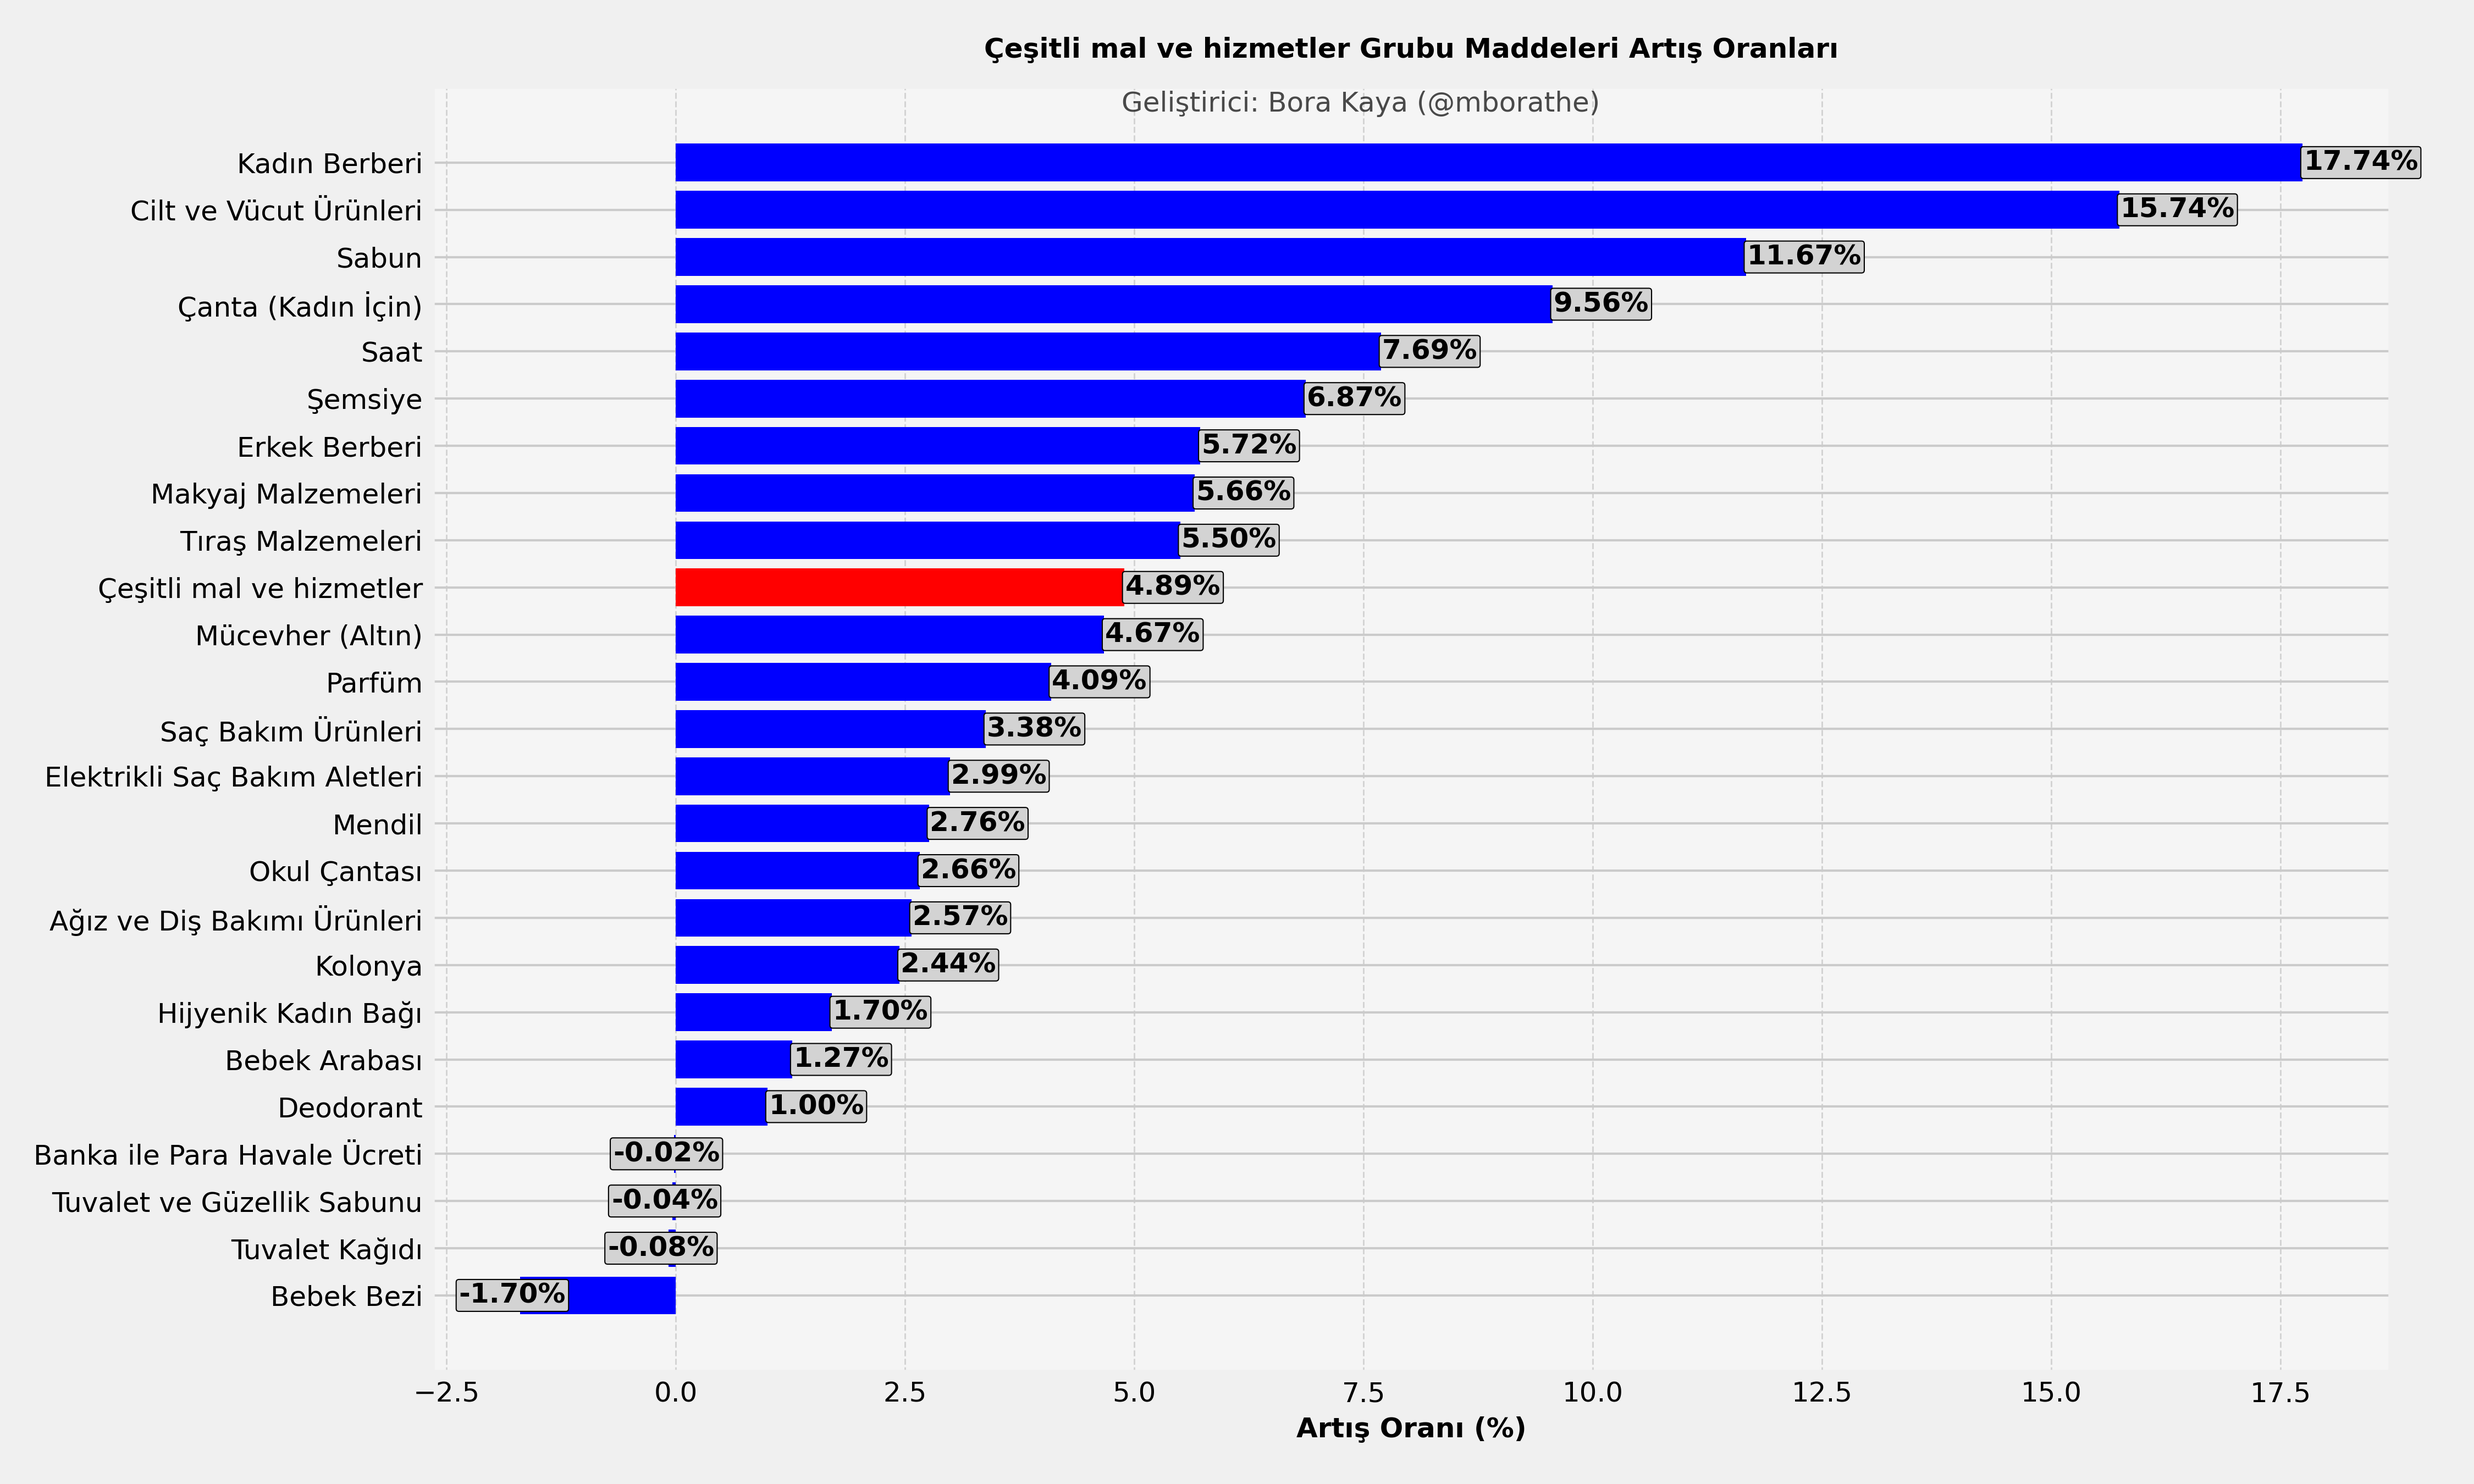
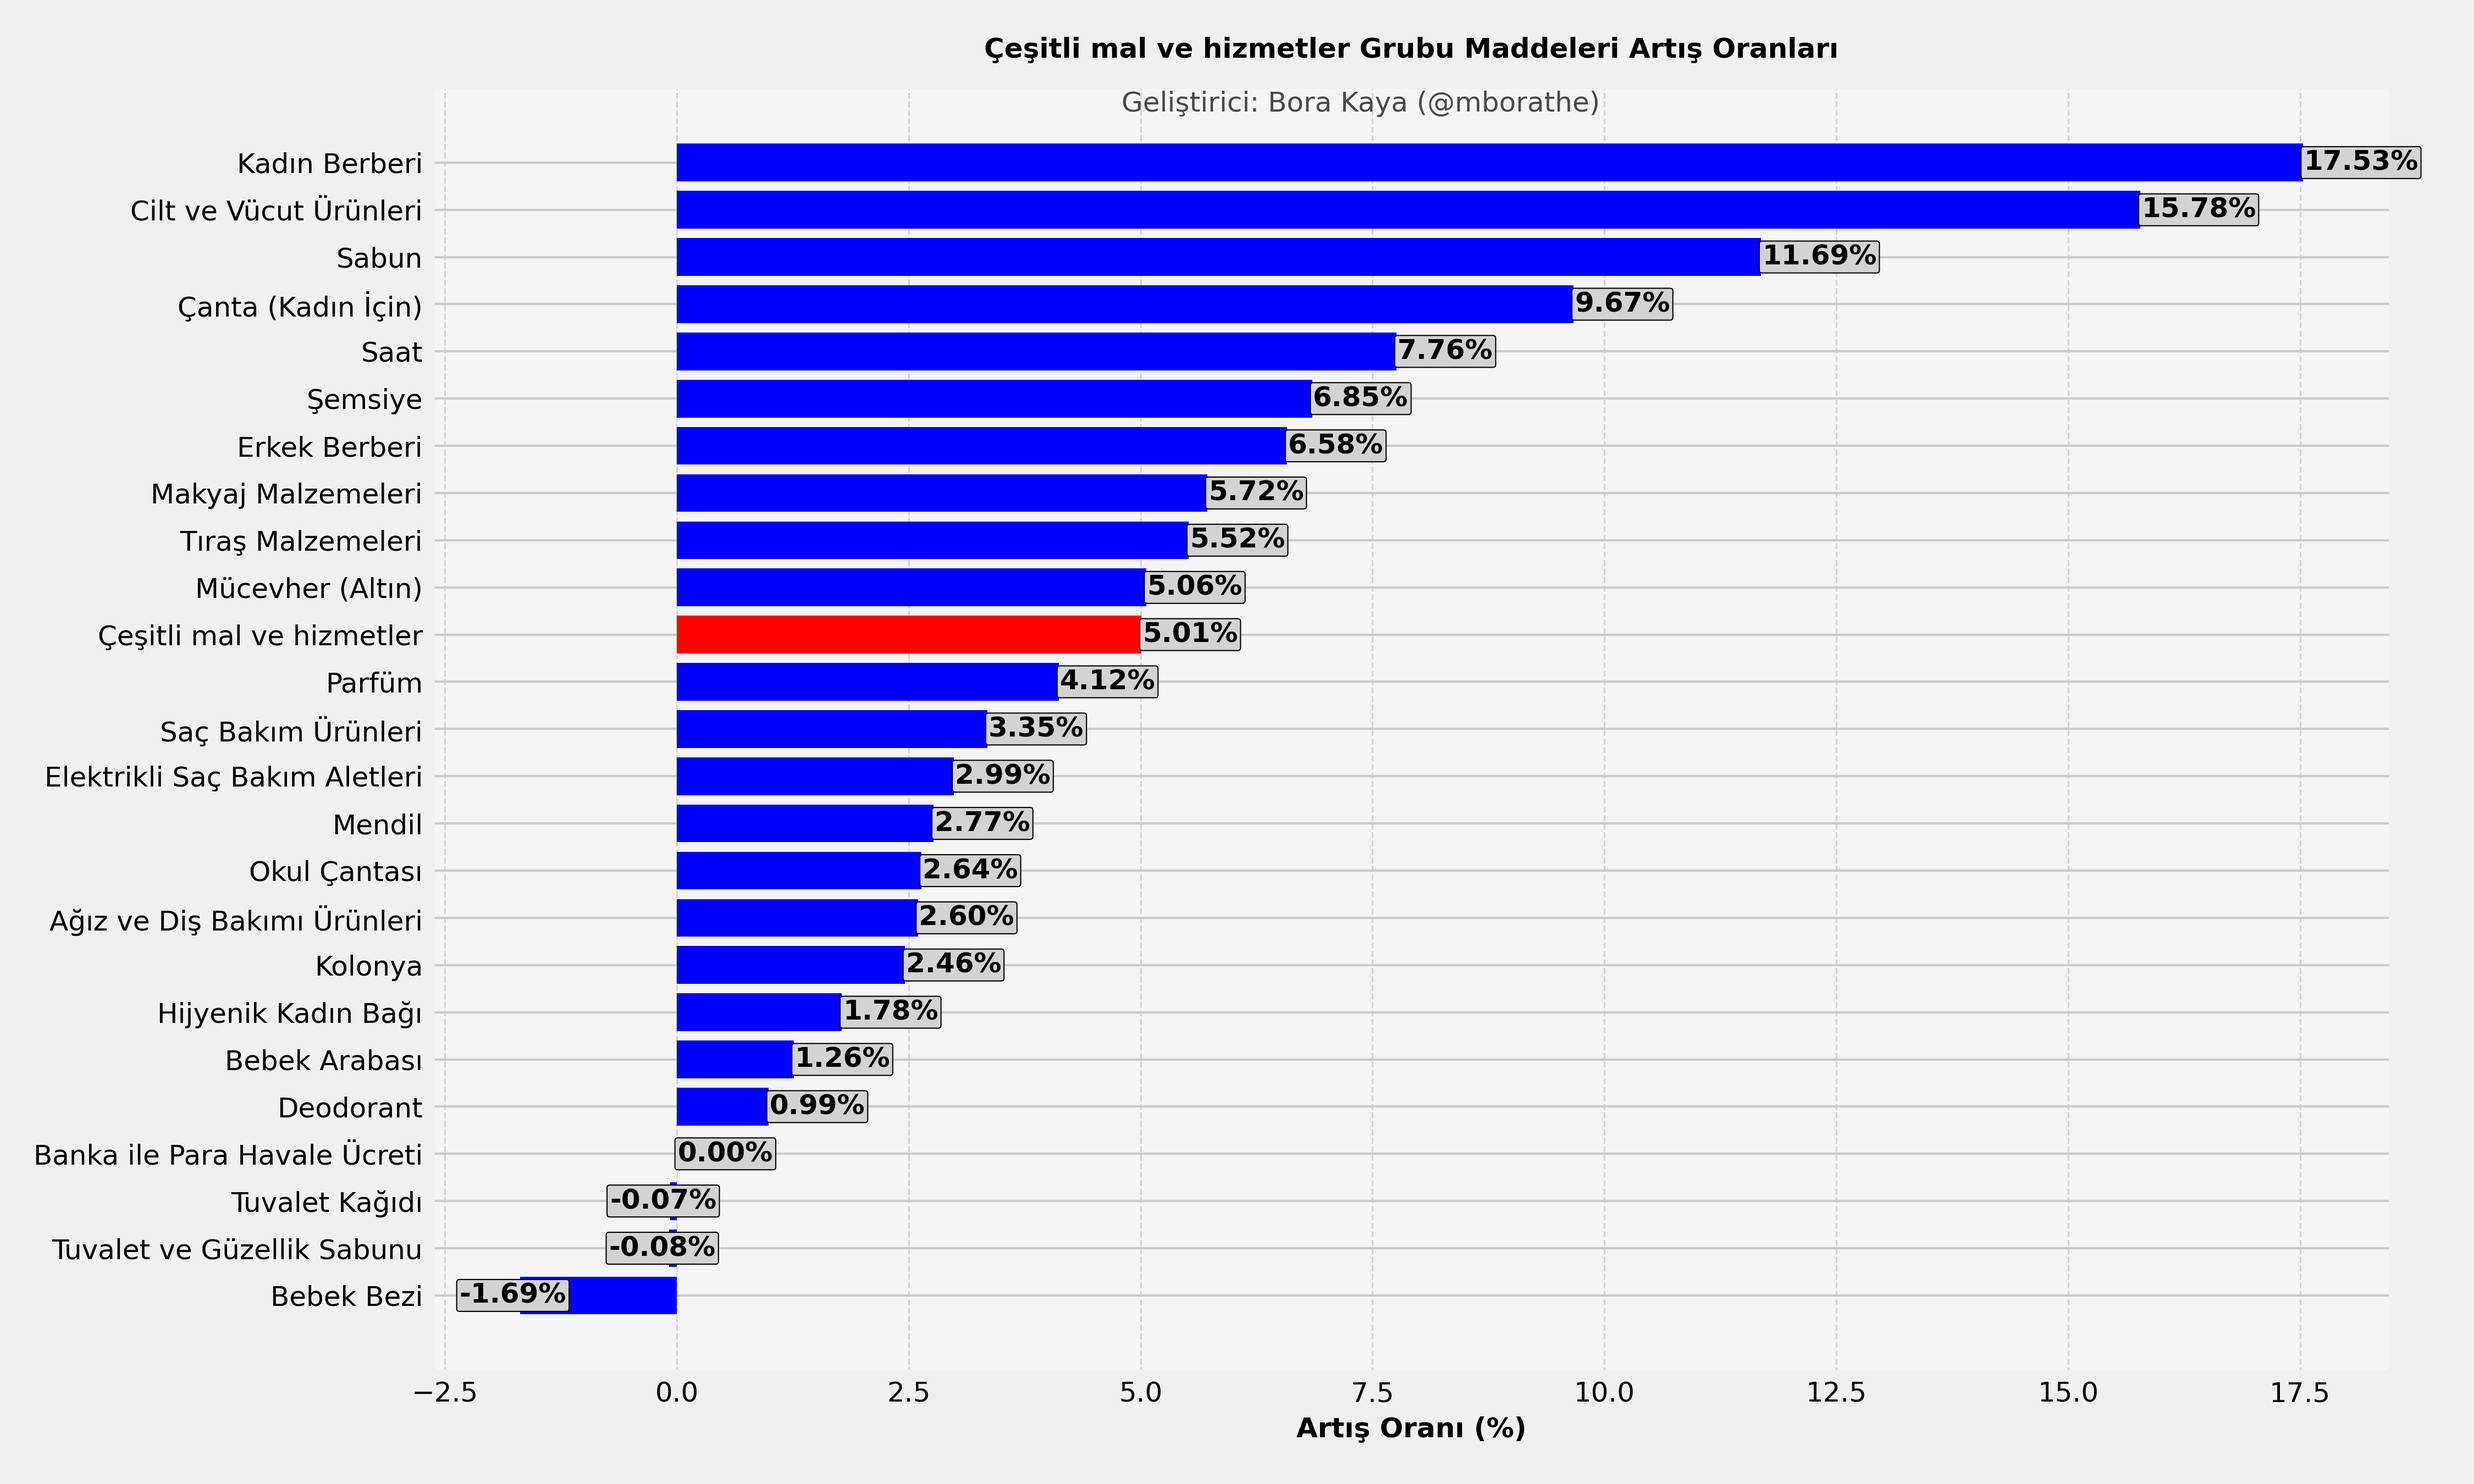
.

diff --git a/stream.py b/stream.py
@@ -65,9 +65,79 @@ if page=="Bültenler":
 
 
     # Tab for selecting the bulletin
-    tab = st.selectbox("Bülten Seçin", ["Şubat 2025"])
+    tab = st.selectbox("Bülten Seçin", ["Mart 2025","Şubat 2025"])
 
     # Check if the user selects February 2025
+    if tab == "Mart 2025":
+        # Title
+        st.markdown("<h2 style='color:black; font-weight:bold;'>Web-Tüketici Fiyat Endeksi Mart 2025 Bülteni</h2>", unsafe_allow_html=True)
+        st.markdown("<h3 style='color:red; font-weight:bold;'>Web-Tüketici Fiyat Endeksi Martta %4,12 arttı</h3>", unsafe_allow_html=True)
+
+        # First image
+        image1 = Image.open("anagruplar.png")
+        st.image(image1, caption="En çok artış ve düşüş yaşanan maddeler")
+
+        # Paragraphs and next images
+        st.write("Web-Tüketici Fiyat Endeksi Martta %4,12 artış kaydederken mevsimsellikten arındırılmış artış %4,34 oldu.")
+        st.write("En çok artış ve düşüş yaşanan maddeler:")
+        image2 = Image.open("maddeler.png")
+        st.image(image2, caption="En çok artış ve düşüş yaşanan temel başlıklar")
+
+        st.write("En çok artış ve düşüş yaşanan temel başlıklar:")
+        image3 = Image.open("temelbaşlıklar.png")
+        st.image(image3, caption="Özel Kapsamlı TÜFE Göstergeleri")
+
+        st.write("Özel Kapsamlı TÜFE Göstergeleri:")
+        image4 = Image.open("özelgöstergeler.png")
+        st.image(image4, caption="Özel Kapsamlı Göstergeler aylık artış oranları")
+
+        st.write("Özel Kapsamlı Göstergeler aylık artış oranları:")
+        image5 = Image.open("özelgöstergelerartış.png")
+        st.image(image5, caption="Ana gruplara ait artış oranları")
+
+        # Display remaining images
+        images = [
+            ("eveşyası.png", "Ev Eşyası"),
+            ("eğitim.png", "Eğitim"),
+            ("eğlence.png", "Eğlence"),
+            ("Giyim ve ayakkabı.png", "Giyim ve Ayakkabı"),
+            ("Gıda ve alkolsüz içecekler.png", "Gıda ve Alkolsüz İçecekler"),
+            ("Haberleşme.png", "Haberleşme"),
+            ("Konut.png", "Konut"),
+            ("Lokanta ve oteller.png", "Lokanta ve Oteller"),
+            ("Ulaştırma.png", "Ulaştırma"),
+            ("Çeşitli mal ve hizmetler.png", "Çeşitli Mal ve Hizmetler"),
+            ("Giyim ve ayakkabı.png", "Giyim ve Ayakkabı")
+        ]
+
+        for image_path, caption in images:
+            image = Image.open(image_path)
+            st.image(image, caption=caption)
+
+        # Seçilmiş maddelere ait ortalama fiyatlar
+        st.write("Seçilmiş maddelere ait ortalama fiyatlar:")
+        image17 = Image.open("fiyatlar.png")
+        
+
+        # Final section with trend and link
+        st.write("Mevsimsellikten arındırılmış ana eğilimlere bakıldığında medyan artış %3,12 olmuştur.")
+        st.write("SATRIM(Mevsimsel Düzeltilmiş Budanmış Enflasyon) göstergesi ise %3,36 artmıştır.")
+        image18 = Image.open("eğilim.png")
+        st.image(image18, caption="Mevsimsellikten Arındırılmış Eğilim")
+
+
+        # Footer
+        st.markdown("<hr>", unsafe_allow_html=True)
+        st.markdown("""
+            <small>
+                *Bu bültenin bir sonraki yayınlanma tarihi 24 Nisan 2025'tir. Burada yer alan bilgi ve analizler tamamen kişisel çalışma olup kesin bir doğruluk içermemekte ve yatırım tavsiyesi içermemektedir.*<br>
+                *TÜİK’in hesaplamasıyla uyumlu olması açısından ayın ilk 24 günündeki veriler dikkate alınmıştır.*
+            </small>
+        """, unsafe_allow_html=True)
+
+        st.markdown("<p><strong>Hazırlayan: Bora Kaya</strong></p>", unsafe_allow_html=True)
+        st.markdown("<p>Web-TÜFE Twitter: <a href='https://x.com/webtufe'>https://x.com/webtufe</a></p>", unsafe_allow_html=True)
+        st.markdown("<p>Linkedin: <a href='https://www.linkedin.com/in/bora-kaya/'>https://www.linkedin.com/in/bora-kaya/</a></p>", unsafe_allow_html=True)
     if tab == "Şubat 2025":
         # Title
         st.markdown("<h2 style='color:black; font-weight:bold;'>Web-Tüketici Fiyat Endeksi Şubat 2025 Bülteni</h2>", unsafe_allow_html=True)
